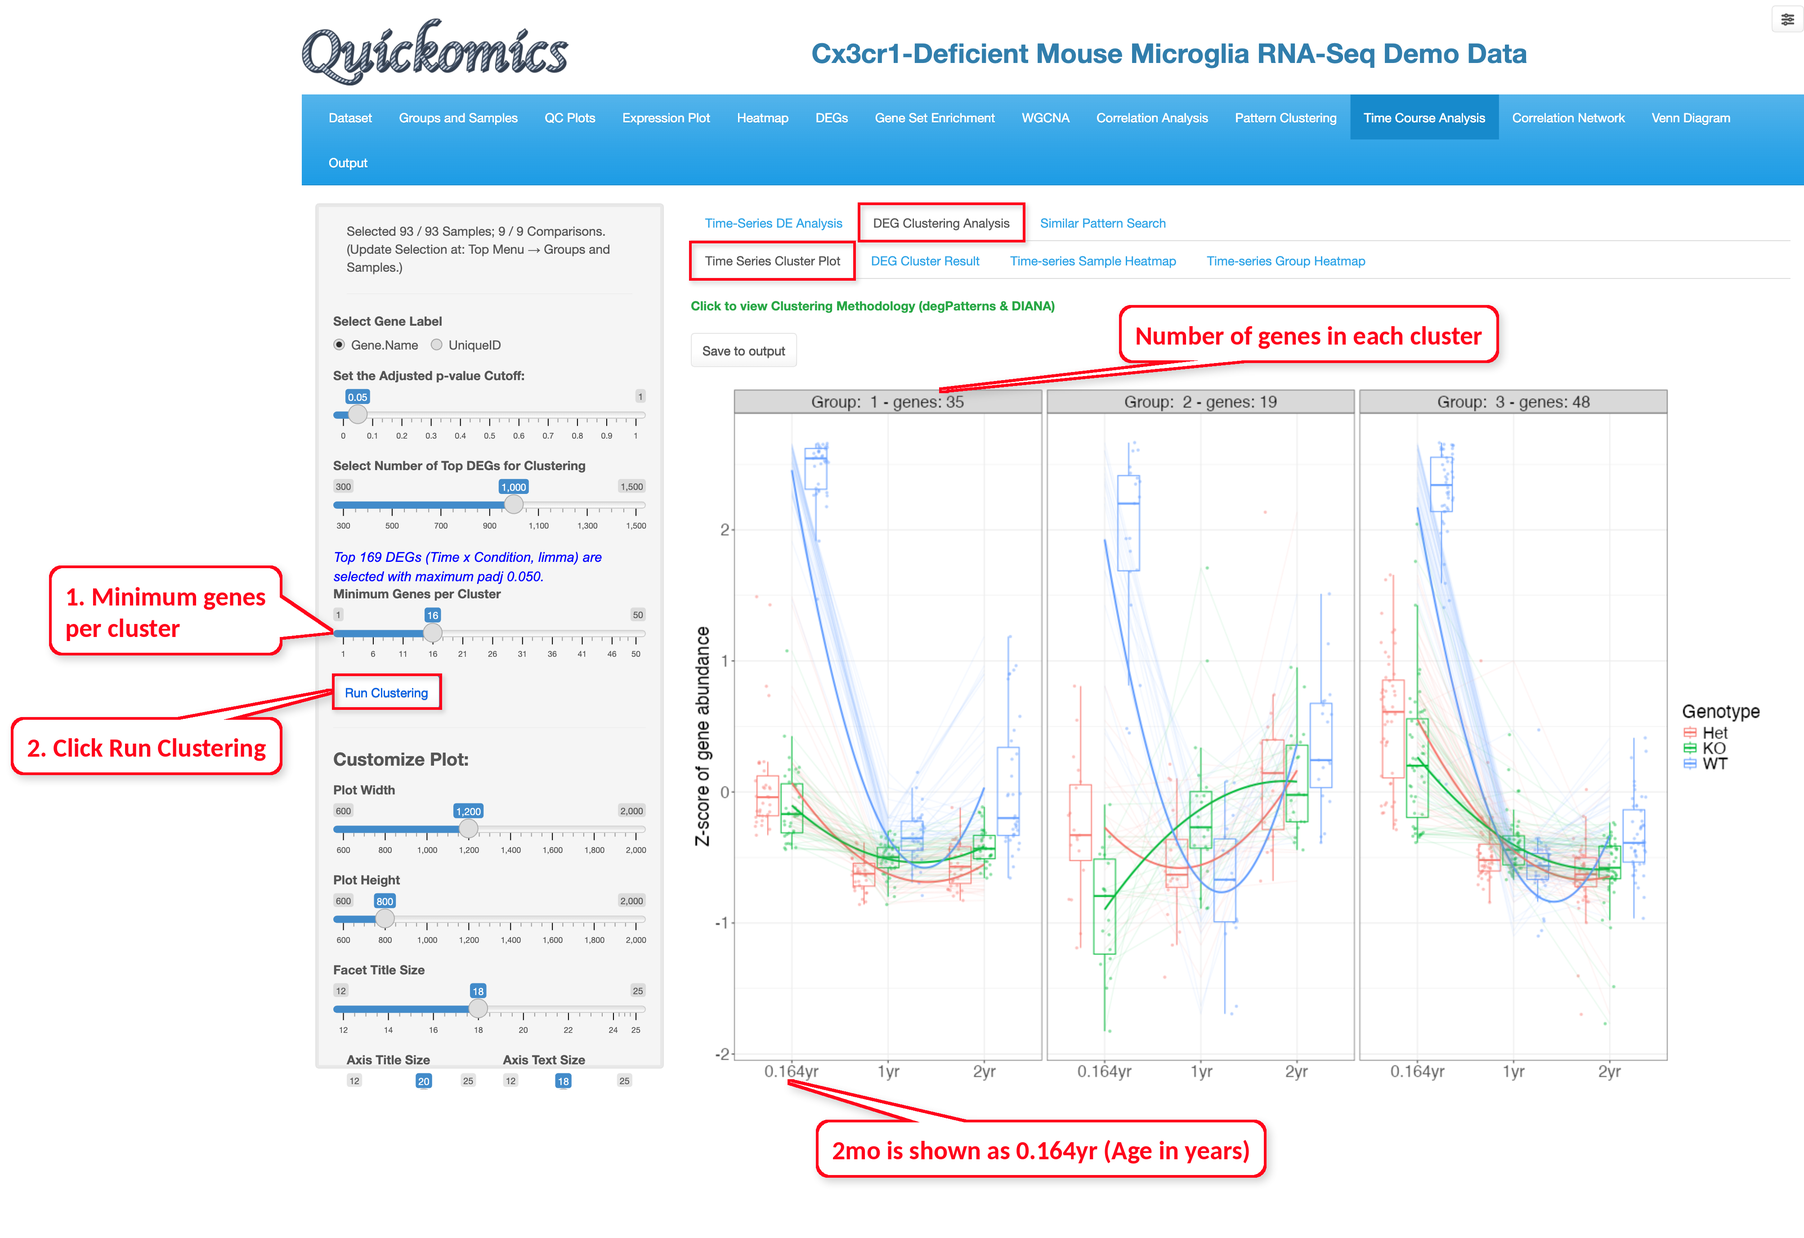
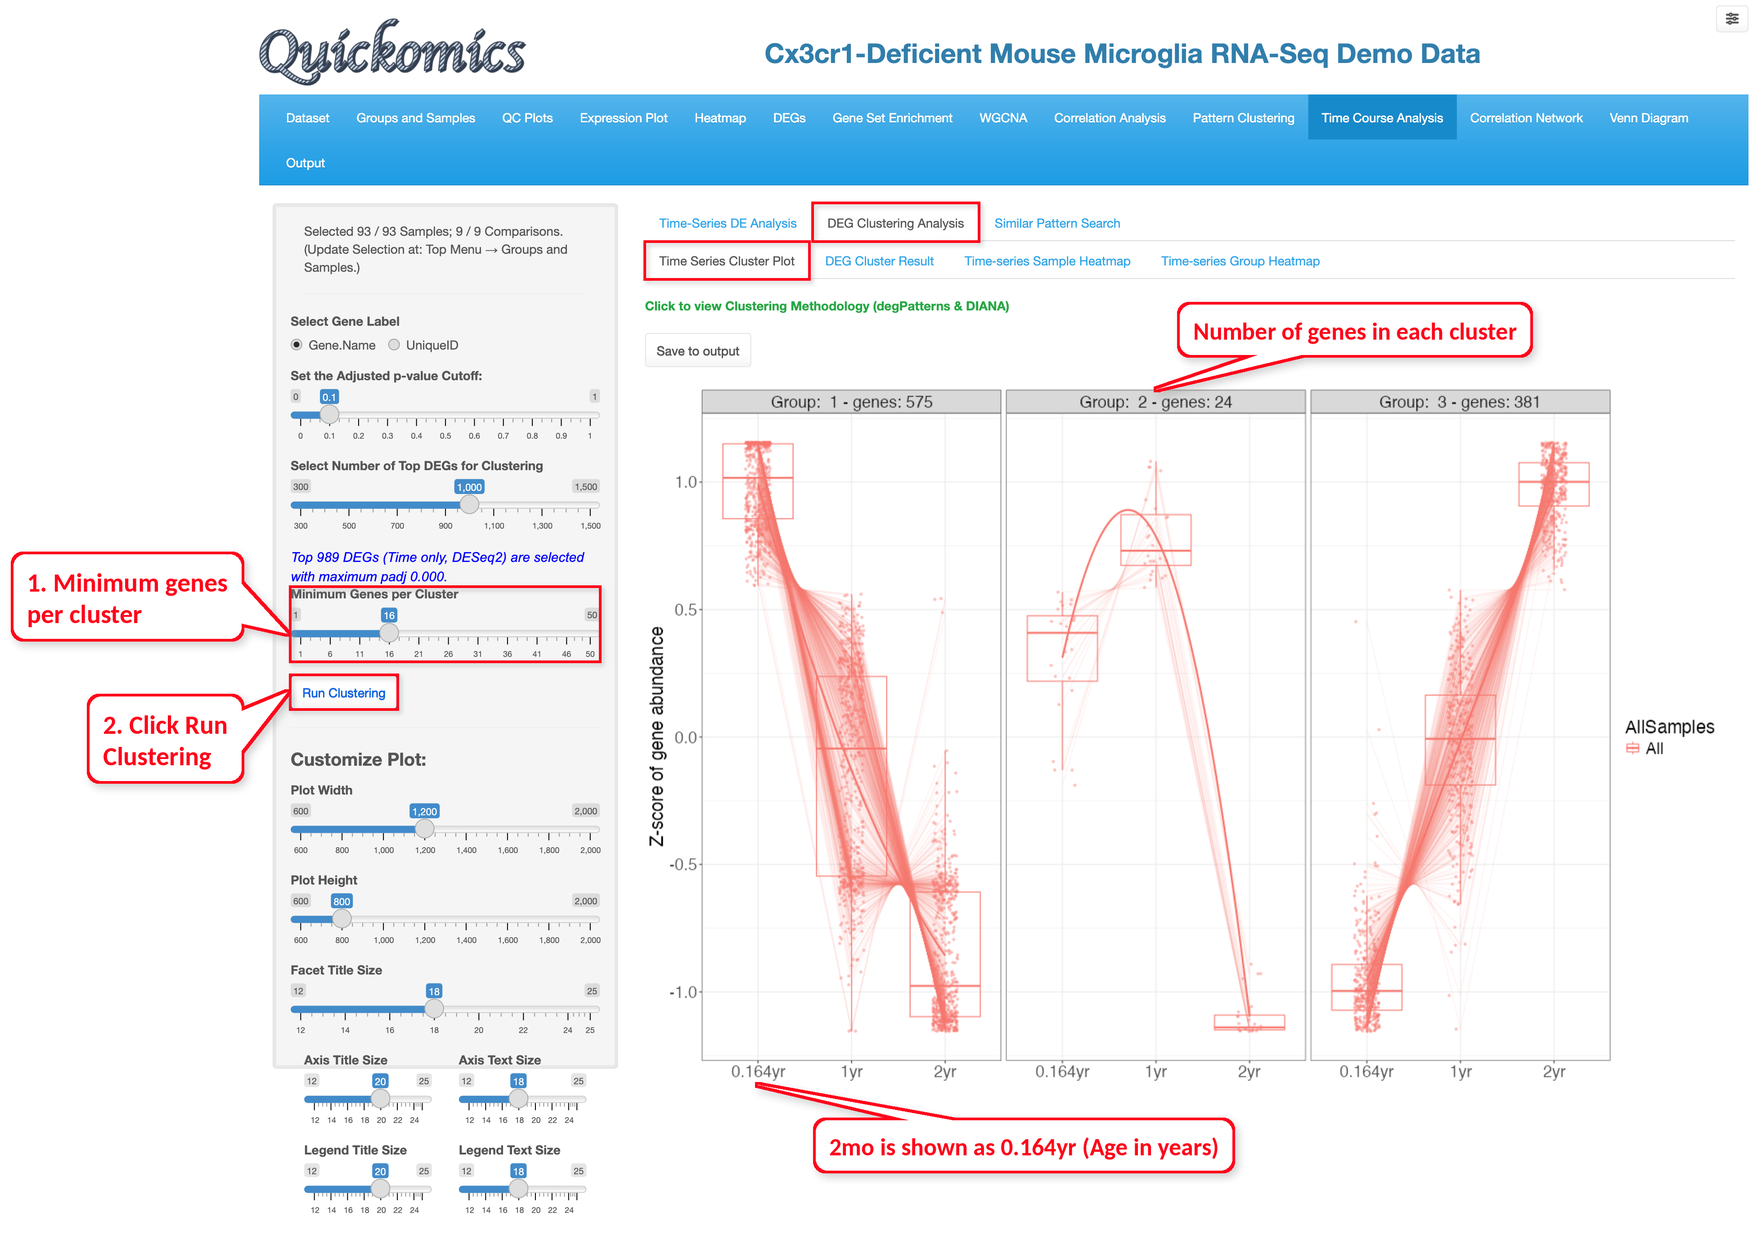
Time Course chapter: new Time only example (Age, DESeq2, padj 0.1), new clusters and Zfp36 similar pattern search, DE_pvalue

diff --git a/tutorial/docs/time-course-analysis-module.html b/tutorial/docs/time-course-analysis-module.html
@@ -22,7 +22,7 @@
 
 
 
-<meta name="date" content="2026-11-10" />
+<meta name="date" content="2026-11-11" />
 
   <meta name="viewport" content="width=device-width, initial-scale=1" />
   <meta name="apple-mobile-web-app-capable" content="yes" />
@@ -215,26 +215,26 @@
             <section class="normal" id="section-">
 <div id="time-course-analysis-module" class="section level1 hasAnchor" number="13">
 <h1><span class="header-section-number">Chapter 13</span> Time Course Analysis Module<a href="time-course-analysis-module.html#time-course-analysis-module" class="anchor-section" aria-label="Anchor link to header"></a></h1>
-<p>This module finds genes whose expression changes over time, groups them by the shape of their time pattern, and finds genes that follow the same pattern as a gene of interest. Any sample attribute with ordered levels can be used as the time variable. The Mouse Microglia demo dataset has no real time series, but its three ages (2mo, 1yr and 2yr) can be used as time points, with Genotype as the condition. The module has three tabs, described below: Time-Series DE Analysis (Section 13.1), DEG Clustering Analysis (13.2) and Similar Pattern Search (13.3). Each tab has a green link that opens a short guide to its method.</p>
+<p>This module finds genes whose expression changes over time, groups them by the shape of their time pattern, and finds genes that follow the same pattern as a gene of interest. Any sample attribute with ordered levels can be used as the time variable. The Mouse Microglia demo dataset has no real time series, but its three ages (2mo, 1yr and 2yr) can be used as time points, and Genotype can be used as the condition. The module has three tabs, described below: Time-Series DE Analysis (Section 13.1), DEG Clustering Analysis (13.2) and Similar Pattern Search (13.3). Each tab has a green link that opens a short guide to its method.</p>
 <div id="time-series-de-analysis" class="section level2 hasAnchor" number="13.1">
 <h2><span class="header-section-number">13.1</span> Time-Series DE Analysis<a href="time-course-analysis-module.html#time-series-de-analysis" class="anchor-section" aria-label="Anchor link to header"></a></h2>
 <p>Select the time variable and, optionally, one or more condition variables, then choose the method and the test and click “Run Time-Series DE Analysis”. Two methods are offered: DESeq2 for RNA-seq data and limma for continuous log values such as proteomics data; the default is chosen from the expression unit of the project. Two tests are offered. “Time x Condition” finds genes whose trend over time is different between the conditions, and “Time only” finds genes that change over time. Unlike the DEG module, the P values describe the whole trend of a gene, not a single fold change between two groups.</p>
-<p>In the example below, we used Age as the time variable, Genotype as the condition and the Time x Condition test, so the analysis asks which genes change with age differently in Het, KO and WT microglia. 169 genes pass the adjusted P value cutoff of 0.05. The max_time_log2FC columns give, for each genotype, the log2 fold change between the time points with the highest and the lowest mean expression. For the top gene, Mmp8, this value is 3.75 in WT but only 0.26 in Het and 0.25 in KO, so Mmp8 changes strongly over time in WT but hardly at all in the other two genotypes. The table can be saved with “Save to output”.</p>
+<p>In the example below, we used Age as the time variable, no condition variable, the DESeq2 method and the Time only test, so the analysis asks which genes change with age in all samples together. Many genes change with age. The genes with the smallest adjusted P values below the cutoff of 0.1 are listed, up to the number set in “Select Number of Top DEGs for Clustering” (1,000 by default); here 989 genes are listed, all with adjusted P values far below 0.1. The max_time_log2FC column gives the log2 fold change between the time points with the highest and the lowest mean expression. The top gene, Zfp36, has the smallest P value and a max_time_log2FC of 2.26. The table can be saved with “Save to output”.</p>
 <p><a href="Figures/FigureS13.1_1.png"><img src="Figures/FigureS13.1_1.png" /></a></p>
 </div>
 <div id="deg-clustering-analysis" class="section level2 hasAnchor" number="13.2">
 <h2><span class="header-section-number">13.2</span> DEG Clustering Analysis<a href="time-course-analysis-module.html#deg-clustering-analysis" class="anchor-section" aria-label="Anchor link to header"></a></h2>
-<p>This tab groups the significant genes from Section 13.1 into clusters of genes with the same time pattern. Set the “Minimum Genes per Cluster” and click “Run Clustering”; smaller clusters are left out, so this number may need to be lowered when there are few significant genes. The “Time Series Cluster Plot” sub-tab shows one panel per cluster, with the number of genes in its title. For each genotype, the box plots show the expression of the genes in the cluster at each age, scaled as z-scores, and the line shows the trend. Note that the plot gives the ages in years, so 2mo is shown as 0.164yr. In the example below, 102 of the 169 genes fall into three clusters of 35, 19 and 48 genes. In all three clusters, the genes are much higher in 2mo WT samples than at the later ages, while Het and KO show smaller changes.</p>
+<p>This tab groups the significant genes from Section 13.1 into clusters of genes with the same time pattern. Set the “Minimum Genes per Cluster” and click “Run Clustering”; smaller clusters are left out, so this number may need to be lowered when there are few significant genes. The “Time Series Cluster Plot” sub-tab shows one panel per cluster, with the number of genes in its title. The box plots show the expression of the genes in the cluster at each age, scaled as z-scores, and the line shows the trend; when a condition variable is used, there is one box and one line per condition. Note that the plot gives the ages in years, so 2mo is shown as 0.164yr. In the example below, 980 of the 989 genes fall into three clusters. The 575 genes of cluster 1 are highest at 2mo and decrease with age. The 381 genes of cluster 3 show the opposite pattern and are highest at 2yr. The 24 genes of cluster 2 go up from 2mo to 1yr and drop at 2yr.</p>
 <p><a href="Figures/FigureS13.2_1.png"><img src="Figures/FigureS13.2_1.png" /></a></p>
 <p>The “DEG Cluster Result” sub-tab lists the genes of each cluster. “Copy all genes” copies them so they can be pasted into other modules, and “Create Expression Plot” shows their expression in the Expression Plot module (Chapter 7).</p>
 <p><a href="Figures/FigureS13.2_2.png"><img src="Figures/FigureS13.2_2.png" /></a></p>
-<p>The “Time-series Sample Heatmap” and “Time-series Group Heatmap” sub-tabs show the genes of the clusters as heatmaps, one column per sample or one column per group. Click “Plot/Refresh” to draw the heatmap after changing the settings. In the group heatmap below, the columns are the three ages within each genotype, and the rows are the genes, split by cluster. The high values in the 2mo column of WT stand out in all three clusters. The data behind each heatmap can be saved as a GCT file with the buttons above it.</p>
+<p>The “Time-series Sample Heatmap” and “Time-series Group Heatmap” sub-tabs show the genes of the clusters as heatmaps, one column per sample or one column per group. Click “Plot/Refresh” to draw the heatmap after changing the settings. In the group heatmap below, the columns are the three ages, and the rows are the genes, split by cluster. Cluster 1 is red at 2mo and blue at 2yr, and cluster 3 is the reverse. The data behind each heatmap can be saved as a GCT file with the buttons above it.</p>
 <p><a href="Figures/FigureS13.2_3.png"><img src="Figures/FigureS13.2_3.png" /></a></p>
 </div>
 <div id="similar-pattern-search" class="section level2 hasAnchor" number="13.3">
 <h2><span class="header-section-number">13.3</span> Similar Pattern Search<a href="time-course-analysis-module.html#similar-pattern-search" class="anchor-section" aria-label="Anchor link to header"></a></h2>
-<p>This tab finds genes whose expression changes over time in the same way as a chosen gene, or in the opposite way. Run the Time-Series DE Analysis first, then type a gene in “Gene to Match”, choose whether to search among all tested genes or only among the significant genes, and click “Find Similar Genes”. The plot shows the mean expression of the chosen gene, the seed gene, as a red dashed line, together with the most similar genes, for each condition and time point. The table ranks the genes by how well their pattern matches the seed gene (kendall_r and pearson_r, where 1 is a perfect match); change_distance shows how close the size of the changes is, with smaller values meaning closer to the seed gene, and DE_padj gives the adjusted P value of the gene from Section 13.1.</p>
-<p>In the example below, we searched all tested genes for genes similar to Mmp8. The top genes, such as 1500015O10Rik, Kcnj13, Sell and Chil3, are also high in 2mo WT samples and change little in Het and KO. “Copy seed + selected genes” and “Create Expression Plot” pass the genes to other modules, and the plot and table can be saved to the output.</p>
+<p>This tab finds genes whose expression changes over time in the same way as a chosen gene, or in the opposite way. Run the Time-Series DE Analysis first, then type a gene in “Gene to Match”, choose whether to search only among the significant genes (the default) or among all tested genes, and click “Find Similar Genes”. The plot shows the mean expression of the chosen gene, the seed gene, as a red dashed line, together with the most similar genes, for each condition and time point. The table ranks the genes by how well their pattern matches the seed gene (pearson_r with the default Pearson similarity, where 1 is a perfect match); change_distance shows how close the size of the changes is, with smaller values meaning closer to the seed gene, and DE_padj and DE_pvalue give the adjusted and the raw P value of the gene from Section 13.1. A blank DE_padj means that DESeq2 left the gene out of the adjustment because of its low counts; DE_pvalue can then be checked instead.</p>
+<p>In the example below, we searched the significant genes for genes similar to Zfp36. The top genes, such as Dusp1, Hist2h2aa2, Ier2 and Fos, are also high at 2mo and lower at 1yr and 2yr, with pearson_r close to 1. “Copy seed + selected genes” and “Create Expression Plot” pass the genes to other modules, and the plot and table can be saved to the output.</p>
 <p><a href="Figures/FigureS13.3_1.png"><img src="Figures/FigureS13.3_1.png" /></a></p>
 
 </div>

diff --git a/tutorial/docs/index.html b/tutorial/docs/index.html
@@ -22,7 +22,7 @@
 
 
 
-<meta name="date" content="2026-11-10" />
+<meta name="date" content="2026-11-11" />
 
   <meta name="viewport" content="width=device-width, initial-scale=1" />
   <meta name="apple-mobile-web-app-capable" content="yes" />
@@ -282,7 +282,7 @@ Biogen<br>
 <a class="author_email" href="mailto:#"><a href="mailto:baohong.zhang@biogen.com" class="email">baohong.zhang@biogen.com</a></a>
 </address>
 <p class="author multi-author"><em>These authors contribute equally Jing Zhu, Yu (Henry) Sun, Zhengyu Ouyang</em></p>
-<p class="date"><em>2026-11-10</em></p>
+<p class="date"><em>2026-11-11</em></p>
 </div>
 <div id="preface" class="section level1 unnumbered hasAnchor">
 <h1>Preface<a href="index.html#preface" class="anchor-section" aria-label="Anchor link to header"></a></h1>

diff --git a/tutorial/docs/404.html b/tutorial/docs/404.html
@@ -22,7 +22,7 @@
 
 
 
-<meta name="date" content="2026-11-10" />
+<meta name="date" content="2026-11-11" />
 
   <meta name="viewport" content="width=device-width, initial-scale=1" />
   <meta name="apple-mobile-web-app-capable" content="yes" />

diff --git a/tutorial/docs/correlation-analysis-module.html b/tutorial/docs/correlation-analysis-module.html
@@ -22,7 +22,7 @@
 
 
 
-<meta name="date" content="2026-11-10" />
+<meta name="date" content="2026-11-11" />
 
   <meta name="viewport" content="width=device-width, initial-scale=1" />
   <meta name="apple-mobile-web-app-capable" content="yes" />

diff --git a/tutorial/docs/correlation-network-module.html b/tutorial/docs/correlation-network-module.html
@@ -22,7 +22,7 @@
 
 
 
-<meta name="date" content="2026-11-10" />
+<meta name="date" content="2026-11-11" />
 
   <meta name="viewport" content="width=device-width, initial-scale=1" />
   <meta name="apple-mobile-web-app-capable" content="yes" />

diff --git a/tutorial/docs/dataset-module.html b/tutorial/docs/dataset-module.html
@@ -22,7 +22,7 @@
 
 
 
-<meta name="date" content="2026-11-10" />
+<meta name="date" content="2026-11-11" />
 
   <meta name="viewport" content="width=device-width, initial-scale=1" />
   <meta name="apple-mobile-web-app-capable" content="yes" />

diff --git a/tutorial/docs/deg-module.html b/tutorial/docs/deg-module.html
@@ -22,7 +22,7 @@
 
 
 
-<meta name="date" content="2026-11-10" />
+<meta name="date" content="2026-11-11" />
 
   <meta name="viewport" content="width=device-width, initial-scale=1" />
   <meta name="apple-mobile-web-app-capable" content="yes" />

diff --git a/tutorial/docs/expression-plot-module.html b/tutorial/docs/expression-plot-module.html
@@ -22,7 +22,7 @@
 
 
 
-<meta name="date" content="2026-11-10" />
+<meta name="date" content="2026-11-11" />
 
   <meta name="viewport" content="width=device-width, initial-scale=1" />
   <meta name="apple-mobile-web-app-capable" content="yes" />

diff --git a/tutorial/docs/faq.html b/tutorial/docs/faq.html
@@ -22,7 +22,7 @@
 
 
 
-<meta name="date" content="2026-11-10" />
+<meta name="date" content="2026-11-11" />
 
   <meta name="viewport" content="width=device-width, initial-scale=1" />
   <meta name="apple-mobile-web-app-capable" content="yes" />

diff --git a/tutorial/docs/gene-set-enrichment-module.html b/tutorial/docs/gene-set-enrichment-module.html
@@ -22,7 +22,7 @@
 
 
 
-<meta name="date" content="2026-11-10" />
+<meta name="date" content="2026-11-11" />
 
   <meta name="viewport" content="width=device-width, initial-scale=1" />
   <meta name="apple-mobile-web-app-capable" content="yes" />

diff --git a/tutorial/docs/groups-and-samples-module.html b/tutorial/docs/groups-and-samples-module.html
@@ -22,7 +22,7 @@
 
 
 
-<meta name="date" content="2026-11-10" />
+<meta name="date" content="2026-11-11" />
 
   <meta name="viewport" content="width=device-width, initial-scale=1" />
   <meta name="apple-mobile-web-app-capable" content="yes" />

diff --git a/tutorial/docs/heatmap-module.html b/tutorial/docs/heatmap-module.html
@@ -22,7 +22,7 @@
 
 
 
-<meta name="date" content="2026-11-10" />
+<meta name="date" content="2026-11-11" />
 
   <meta name="viewport" content="width=device-width, initial-scale=1" />
   <meta name="apple-mobile-web-app-capable" content="yes" />
